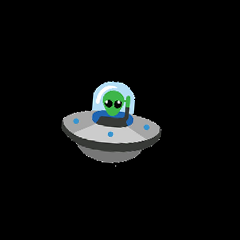
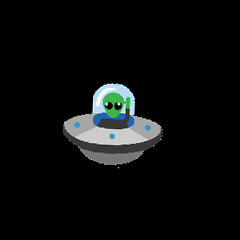
fix: simplify alien UFO motion to smooth floating sway
Removed eye pulse effect that looked weird. Now just a clean
figure-8 floating path with gentle banking tilt. Increased to
20 frames for smoother motion.

Changed region(s): [[0.2333, 0.3208, 0.7, 0.7]]

diff --git a/tools/animate_static.py b/tools/animate_static.py
@@ -210,52 +210,17 @@ def motion_robot(sprite_array, frame_i, total, **kw):
 
 
 def motion_ufo(sprite_array, frame_i, total, **kw):
-    """UFO alien: float + eye pulse + turning left-right."""
-    h, w, c = sprite_array.shape
+    """UFO alien: smooth floating sway + gentle turning."""
     phase = (frame_i / total) * 2 * math.pi
 
-    # Floating sway (slow, hovering feel)
-    x_off = int(8 * math.sin(phase))
-    y_off = int(4 * math.sin(phase * 0.5))
+    # Smooth figure-8 floating path (two different frequencies for x and y)
+    x_off = int(12 * math.sin(phase))
+    y_off = int(5 * math.sin(phase * 2))
 
-    # Eye/head pulse: scale the top 40% of the sprite slightly
-    # This creates a subtle "breathing" or "eye widening" effect
-    result = sprite_array.copy()
-    head_end = int(h * 0.45)
-    pulse = 1.0 + 0.06 * math.sin(phase * 2)  # scale between 0.94 and 1.06
+    # Gentle tilt as it moves left-right (like banking into a turn)
+    rotation = 4 * math.sin(phase)
 
-    if abs(pulse - 1.0) > 0.01:
-        head_section = Image.fromarray(sprite_array[:head_end, :, :])
-        new_w = int(w * pulse)
-        new_h = int(head_end * pulse)
-        scaled = head_section.resize((new_w, new_h), Image.NEAREST)
-        scaled_arr = np.array(scaled)
-
-        # Center the scaled section back into result
-        paste_x = (w - new_w) // 2
-        paste_y = (head_end - new_h) // 2
-
-        # Clear the head region first
-        result[:head_end, :, :] = 0
-
-        # Paste scaled section (clipped to bounds)
-        src_y_start = max(0, -paste_y)
-        src_x_start = max(0, -paste_x)
-        dst_y_start = max(0, paste_y)
-        dst_x_start = max(0, paste_x)
-        copy_h = min(new_h - src_y_start, head_end - dst_y_start)
-        copy_w = min(new_w - src_x_start, w - dst_x_start)
-
-        if copy_h > 0 and copy_w > 0:
-            result[dst_y_start:dst_y_start+copy_h,
-                   dst_x_start:dst_x_start+copy_w, :] = \
-                scaled_arr[src_y_start:src_y_start+copy_h,
-                           src_x_start:src_x_start+copy_w, :]
-
-    # Slight rotation for turning left-right
-    rotation = 5 * math.sin(phase)
-
-    return x_off, y_off, rotation, result
+    return x_off, y_off, rotation, sprite_array
 
 
 MOTION_MAP = {
